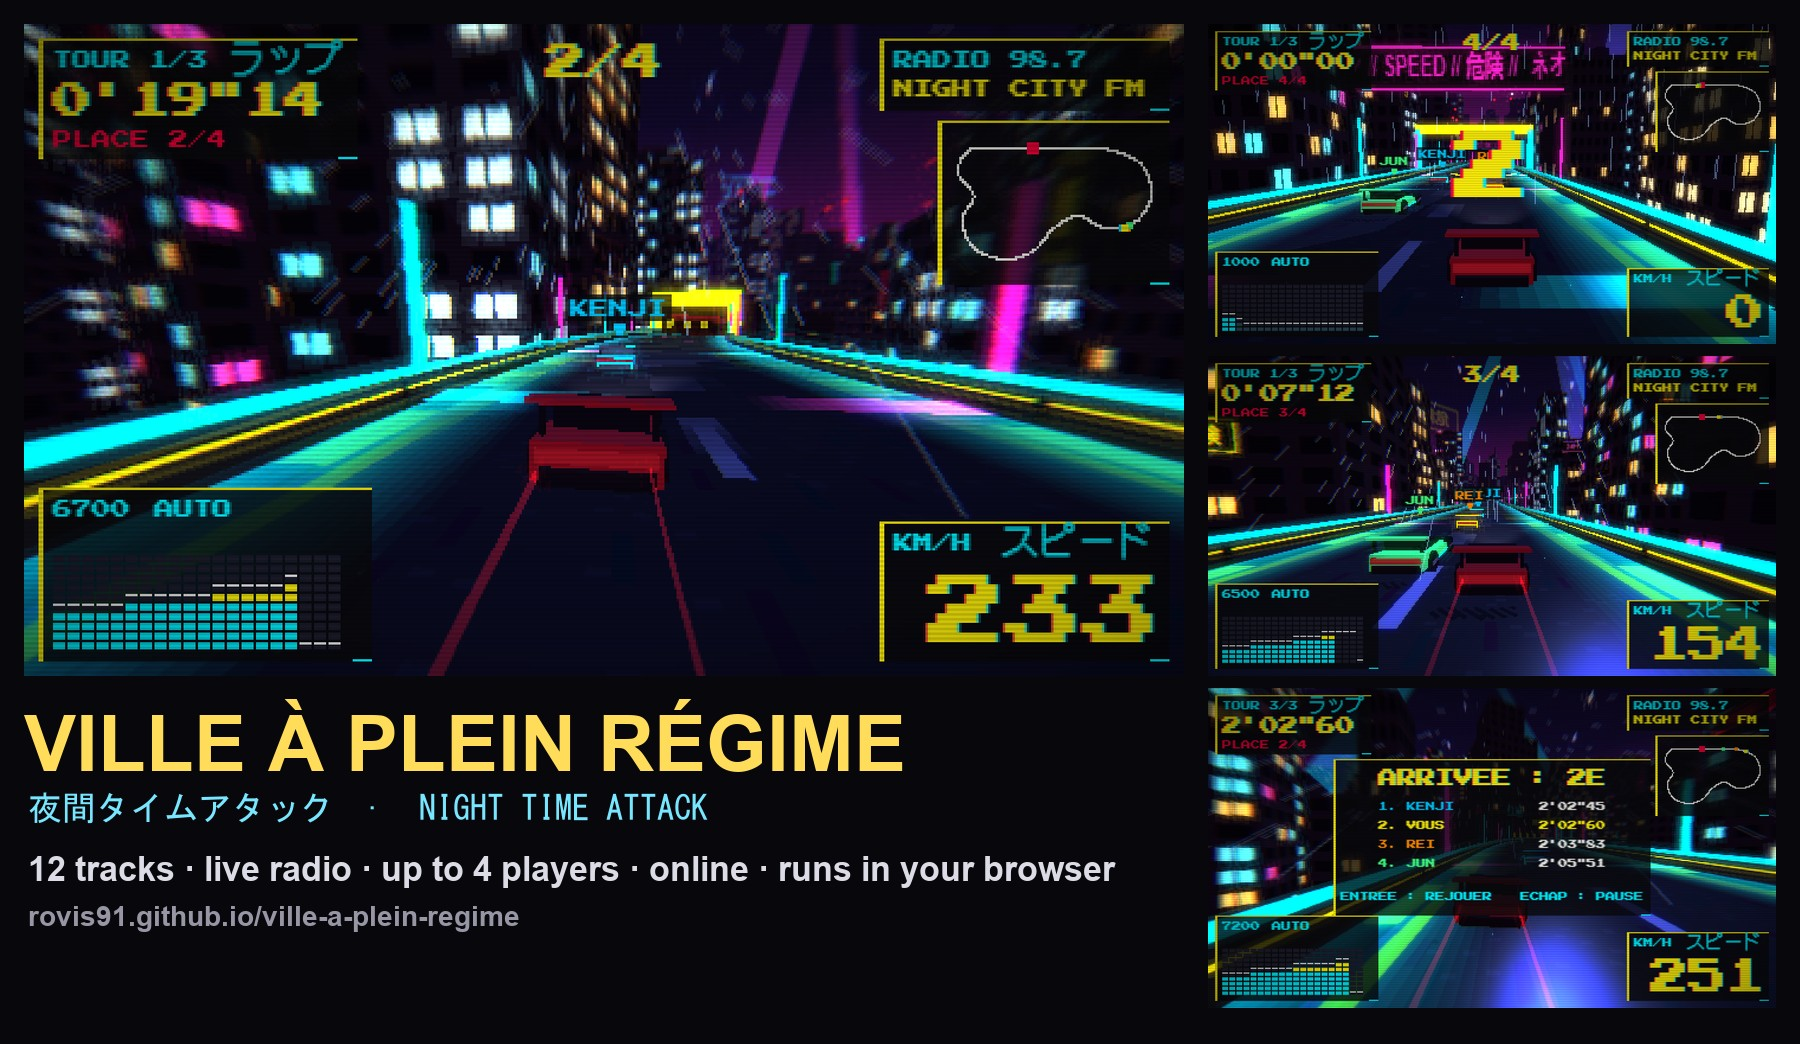
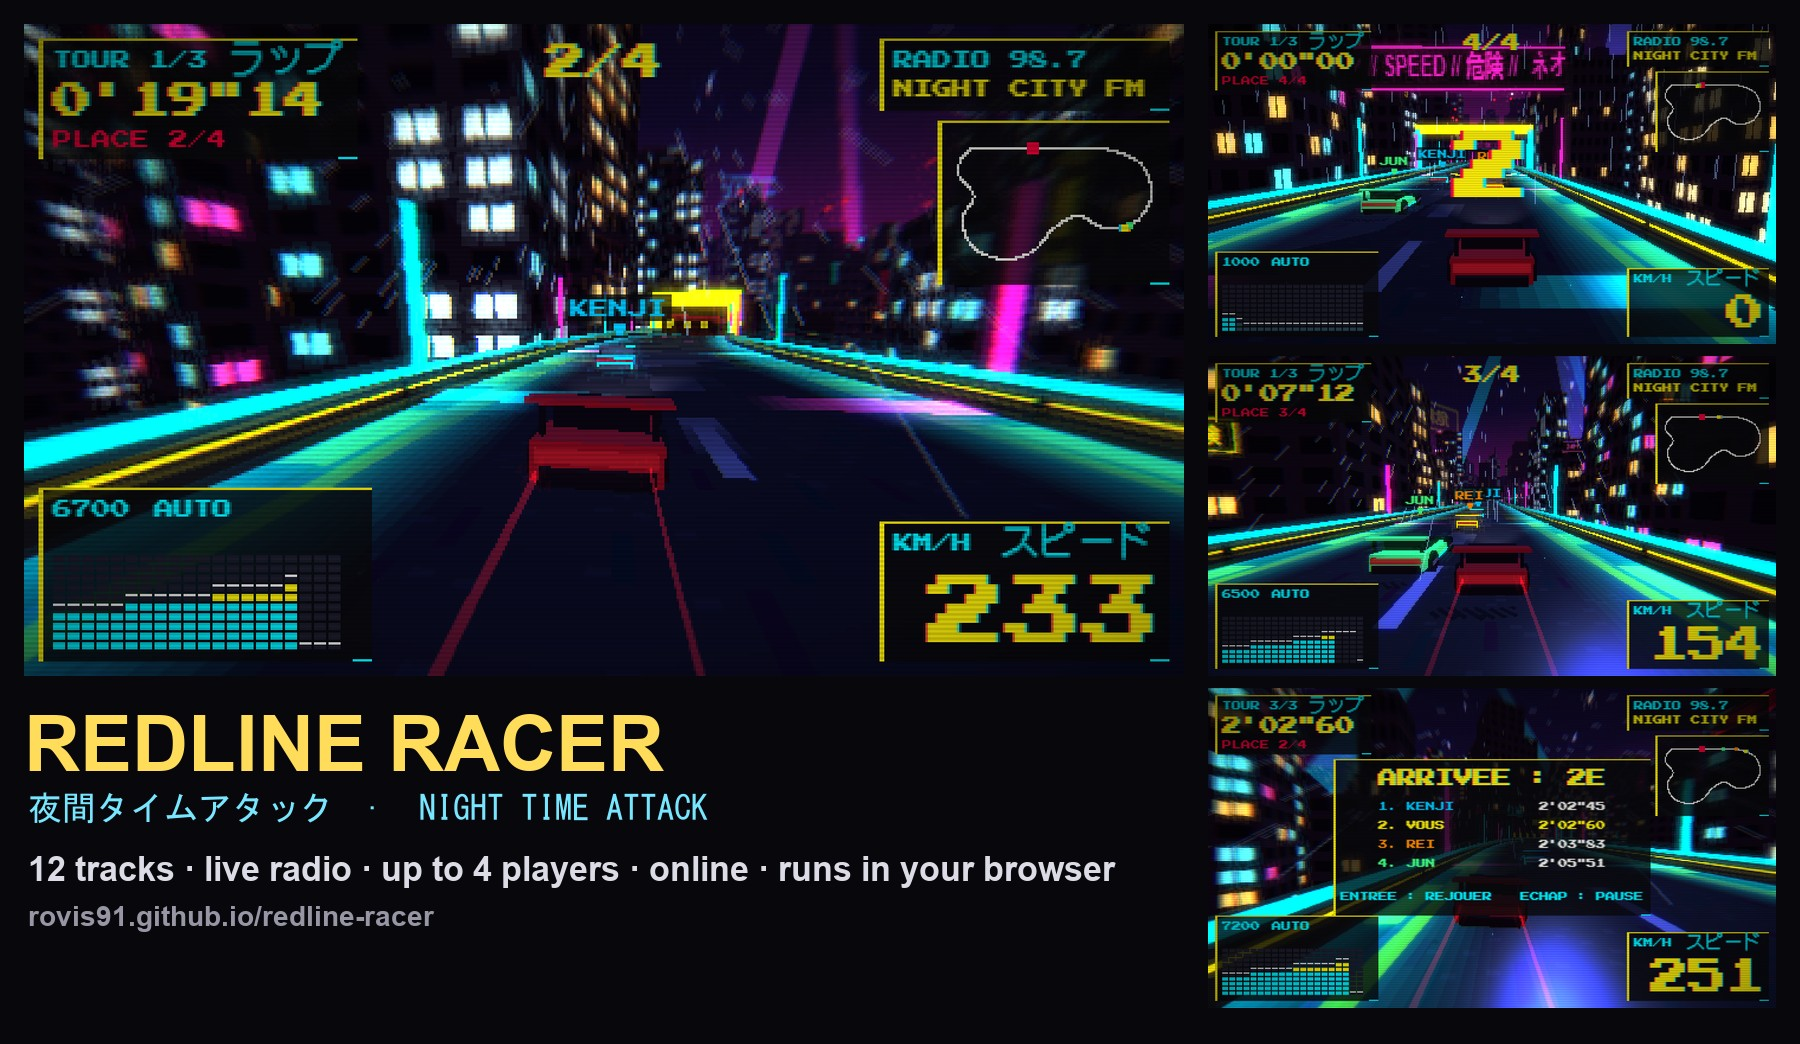
Renommage du dépôt en redline-racer : URL, README, image promo

Changed region(s): [[0.0, 0.6743, 0.4978, 0.7356], [0.1244, 0.8582, 0.28, 0.8889]]

diff --git a/README.md b/README.md
@@ -1,12 +1,12 @@
-<p align="center"><a href="https://rovis91.github.io/ville-a-plein-regime/"><img src="docs/images/promo.jpg" alt="Ville à plein régime: night time attack, an arcade racer for the browser"></a></p>
+<p align="center"><a href="https://rovis91.github.io/redline-racer/"><img src="docs/images/promo.jpg" alt="Redline Racer: night time attack, an arcade racer for the browser"></a></p>
 
-<p align="center"><b><a href="https://rovis91.github.io/ville-a-plein-regime/">▶ Play now in your browser</a></b> · no install, no download</p>
+<p align="center"><b><a href="https://rovis91.github.io/redline-racer/">▶ Play now in your browser</a></b> · no install, no download</p>
 
 <p align="center"><img src="docs/images/circuits.jpg" alt="The 12 tracks"></p>
 
 ## How to play
 
-Open the [live version](https://rovis91.github.io/ville-a-plein-regime/) (or `index.html` locally) in a modern browser. Pick a track, the number of players, a mode and a gearbox in the main menu (arrows to move, Enter to start), then drive.
+Open the [live version](https://rovis91.github.io/redline-racer/) (or `index.html` locally) in a modern browser. Pick a track, the number of players, a mode and a gearbox in the main menu (arrows to move, Enter to start), then drive.
 
 | Control | Keyboard | Gamepad |
 |---|---|---|
